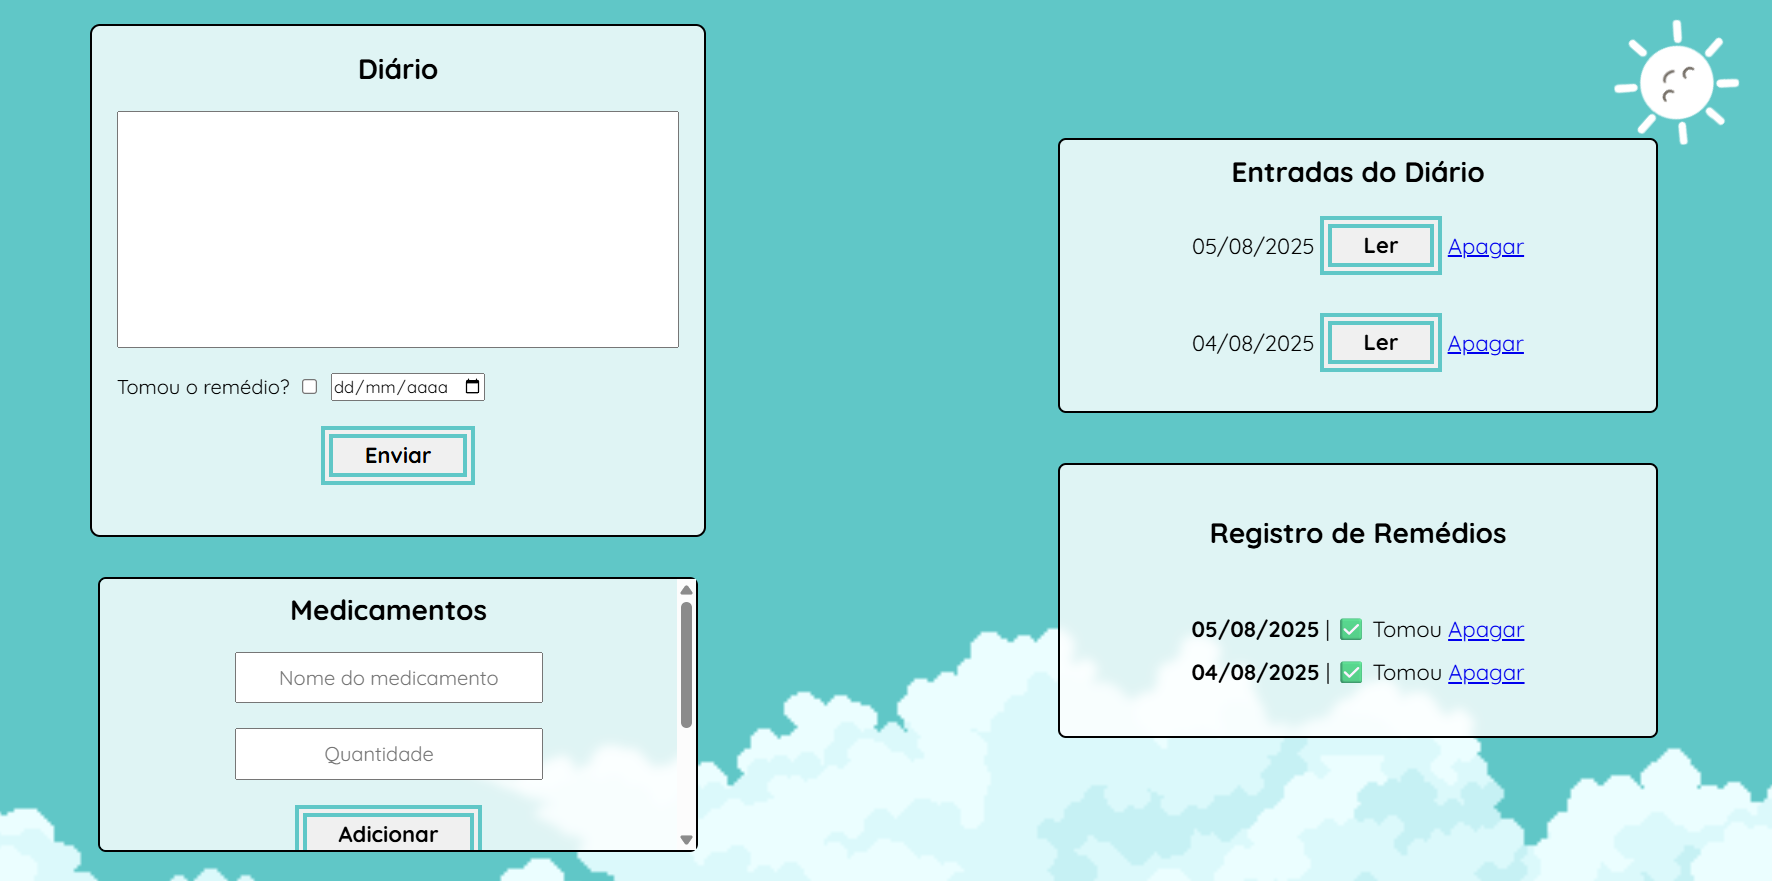
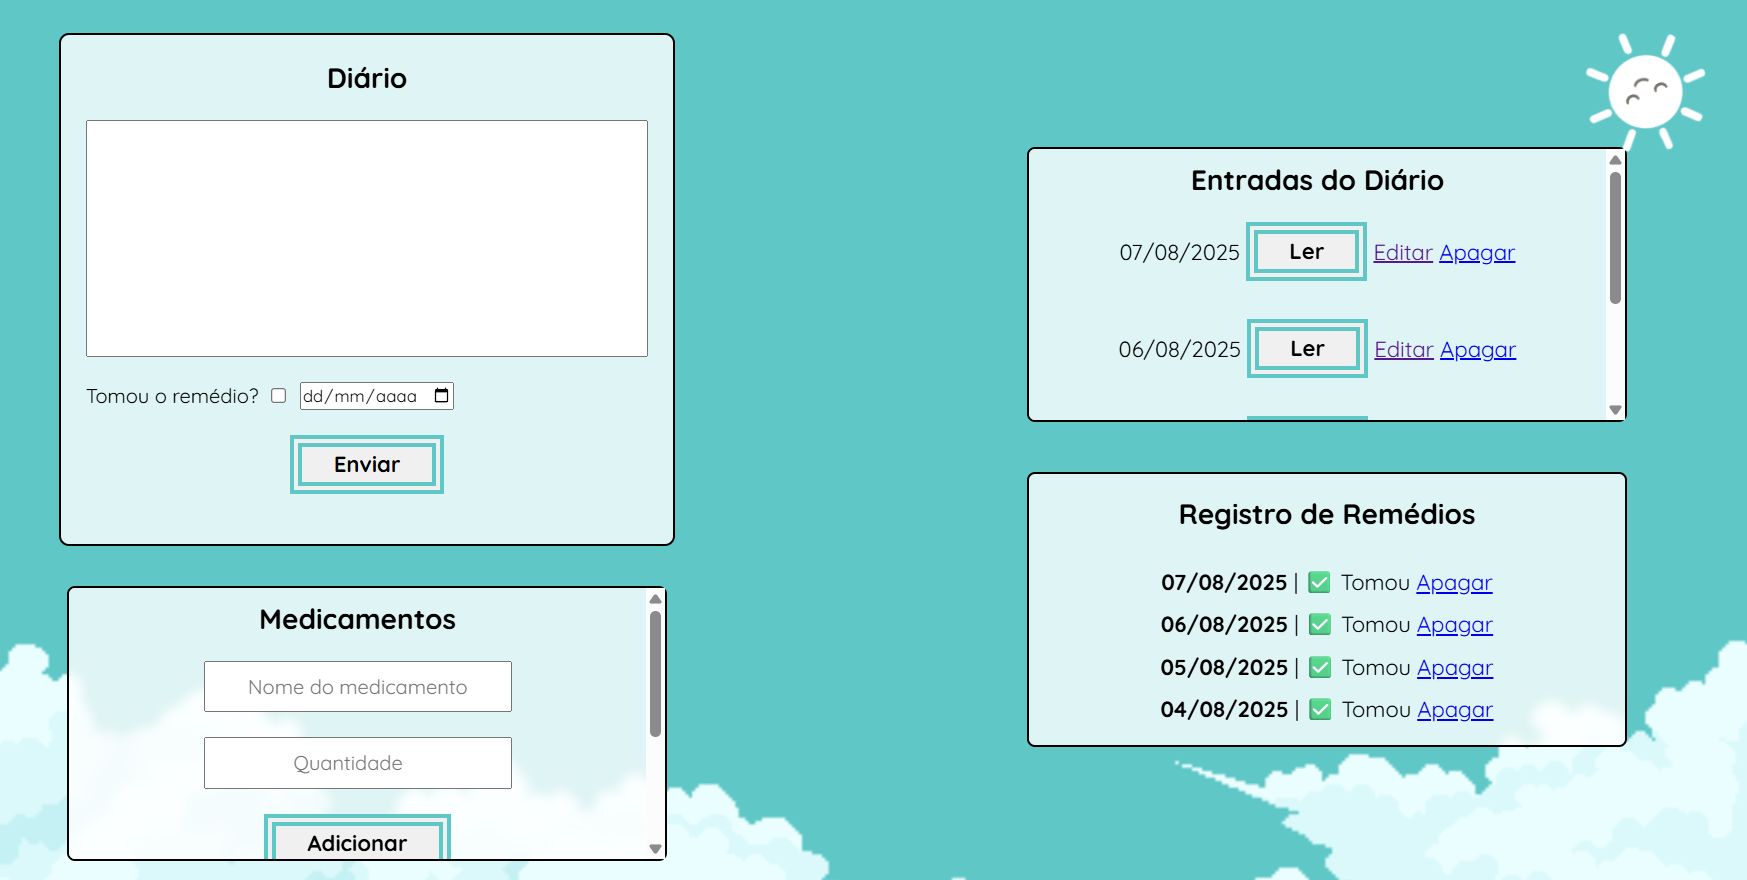
- Atualizar README.md

diff --git a/README.md b/README.md
@@ -6,9 +6,9 @@ Esse é um app web feito com Flask onde você pode registrar seus sentimentos, h
 
 ## 🌟 Funcionalidades
 
-- Adicionar entradas no diário com emoji de humor
 - Marcar se tomou o remédio ou não
 - Visualizar histórico de entradas
+- Editar entradas no diário
 - Excluir entradas quando quiser
 - 💊 Adicionar medicamentos
 
